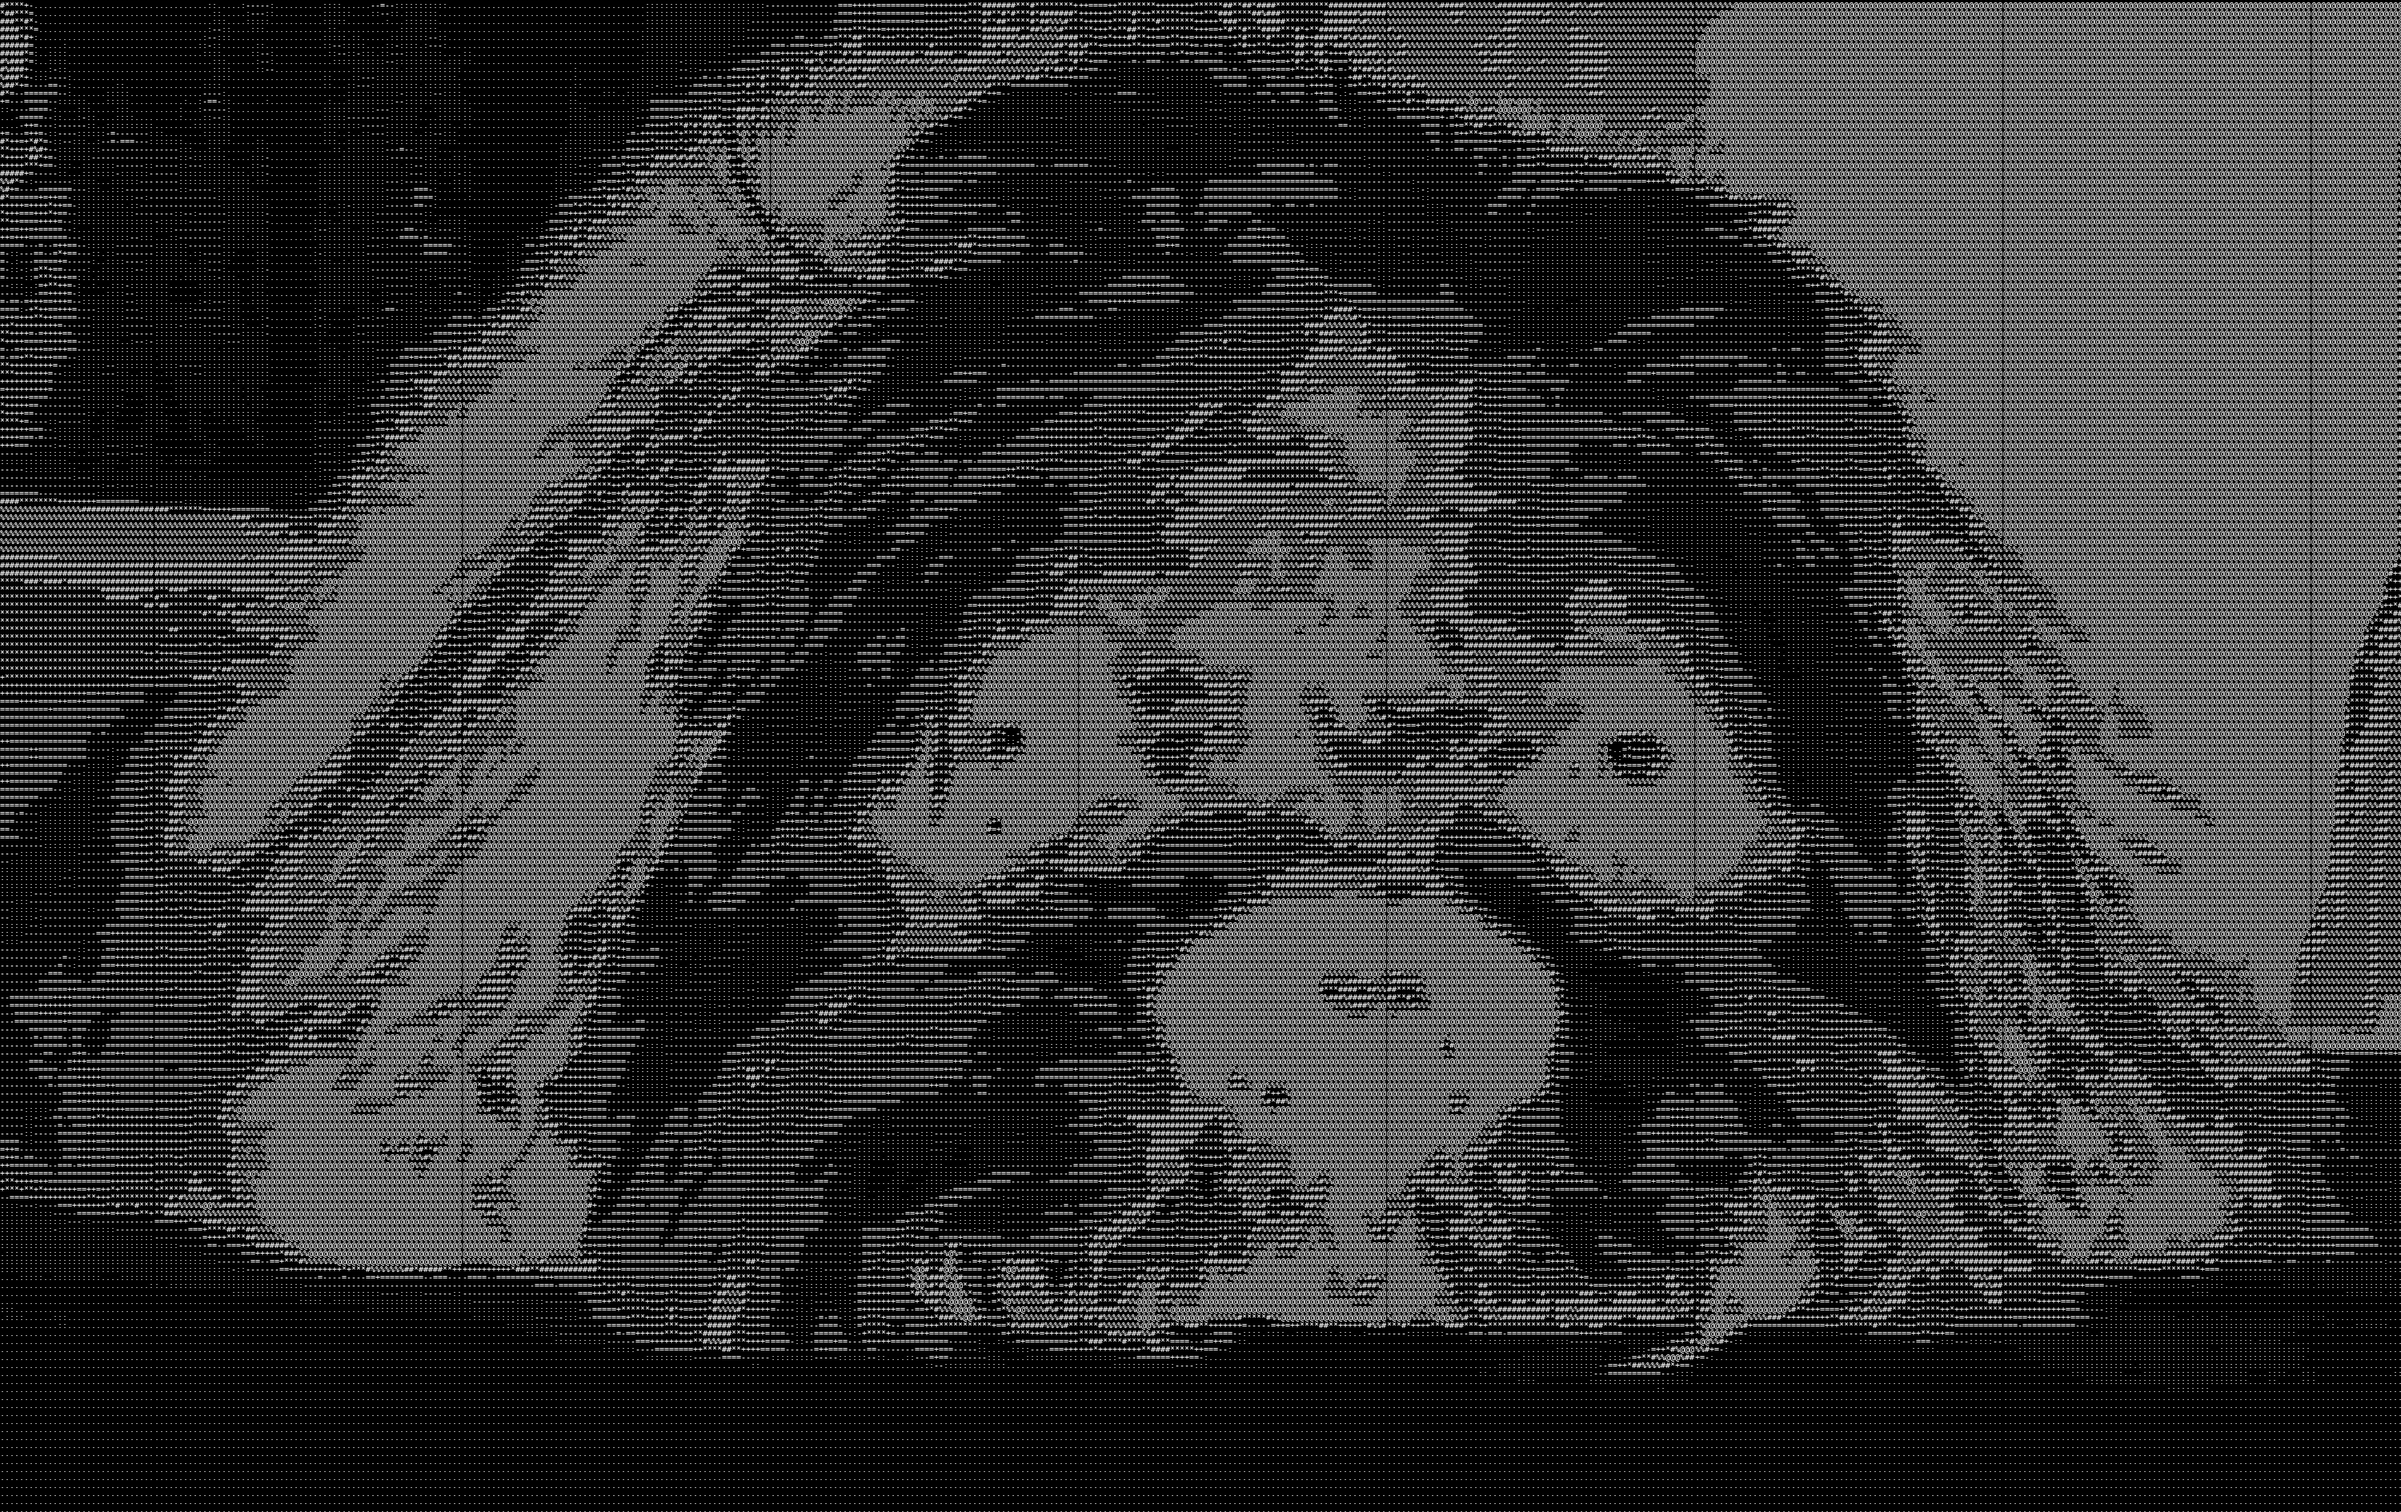
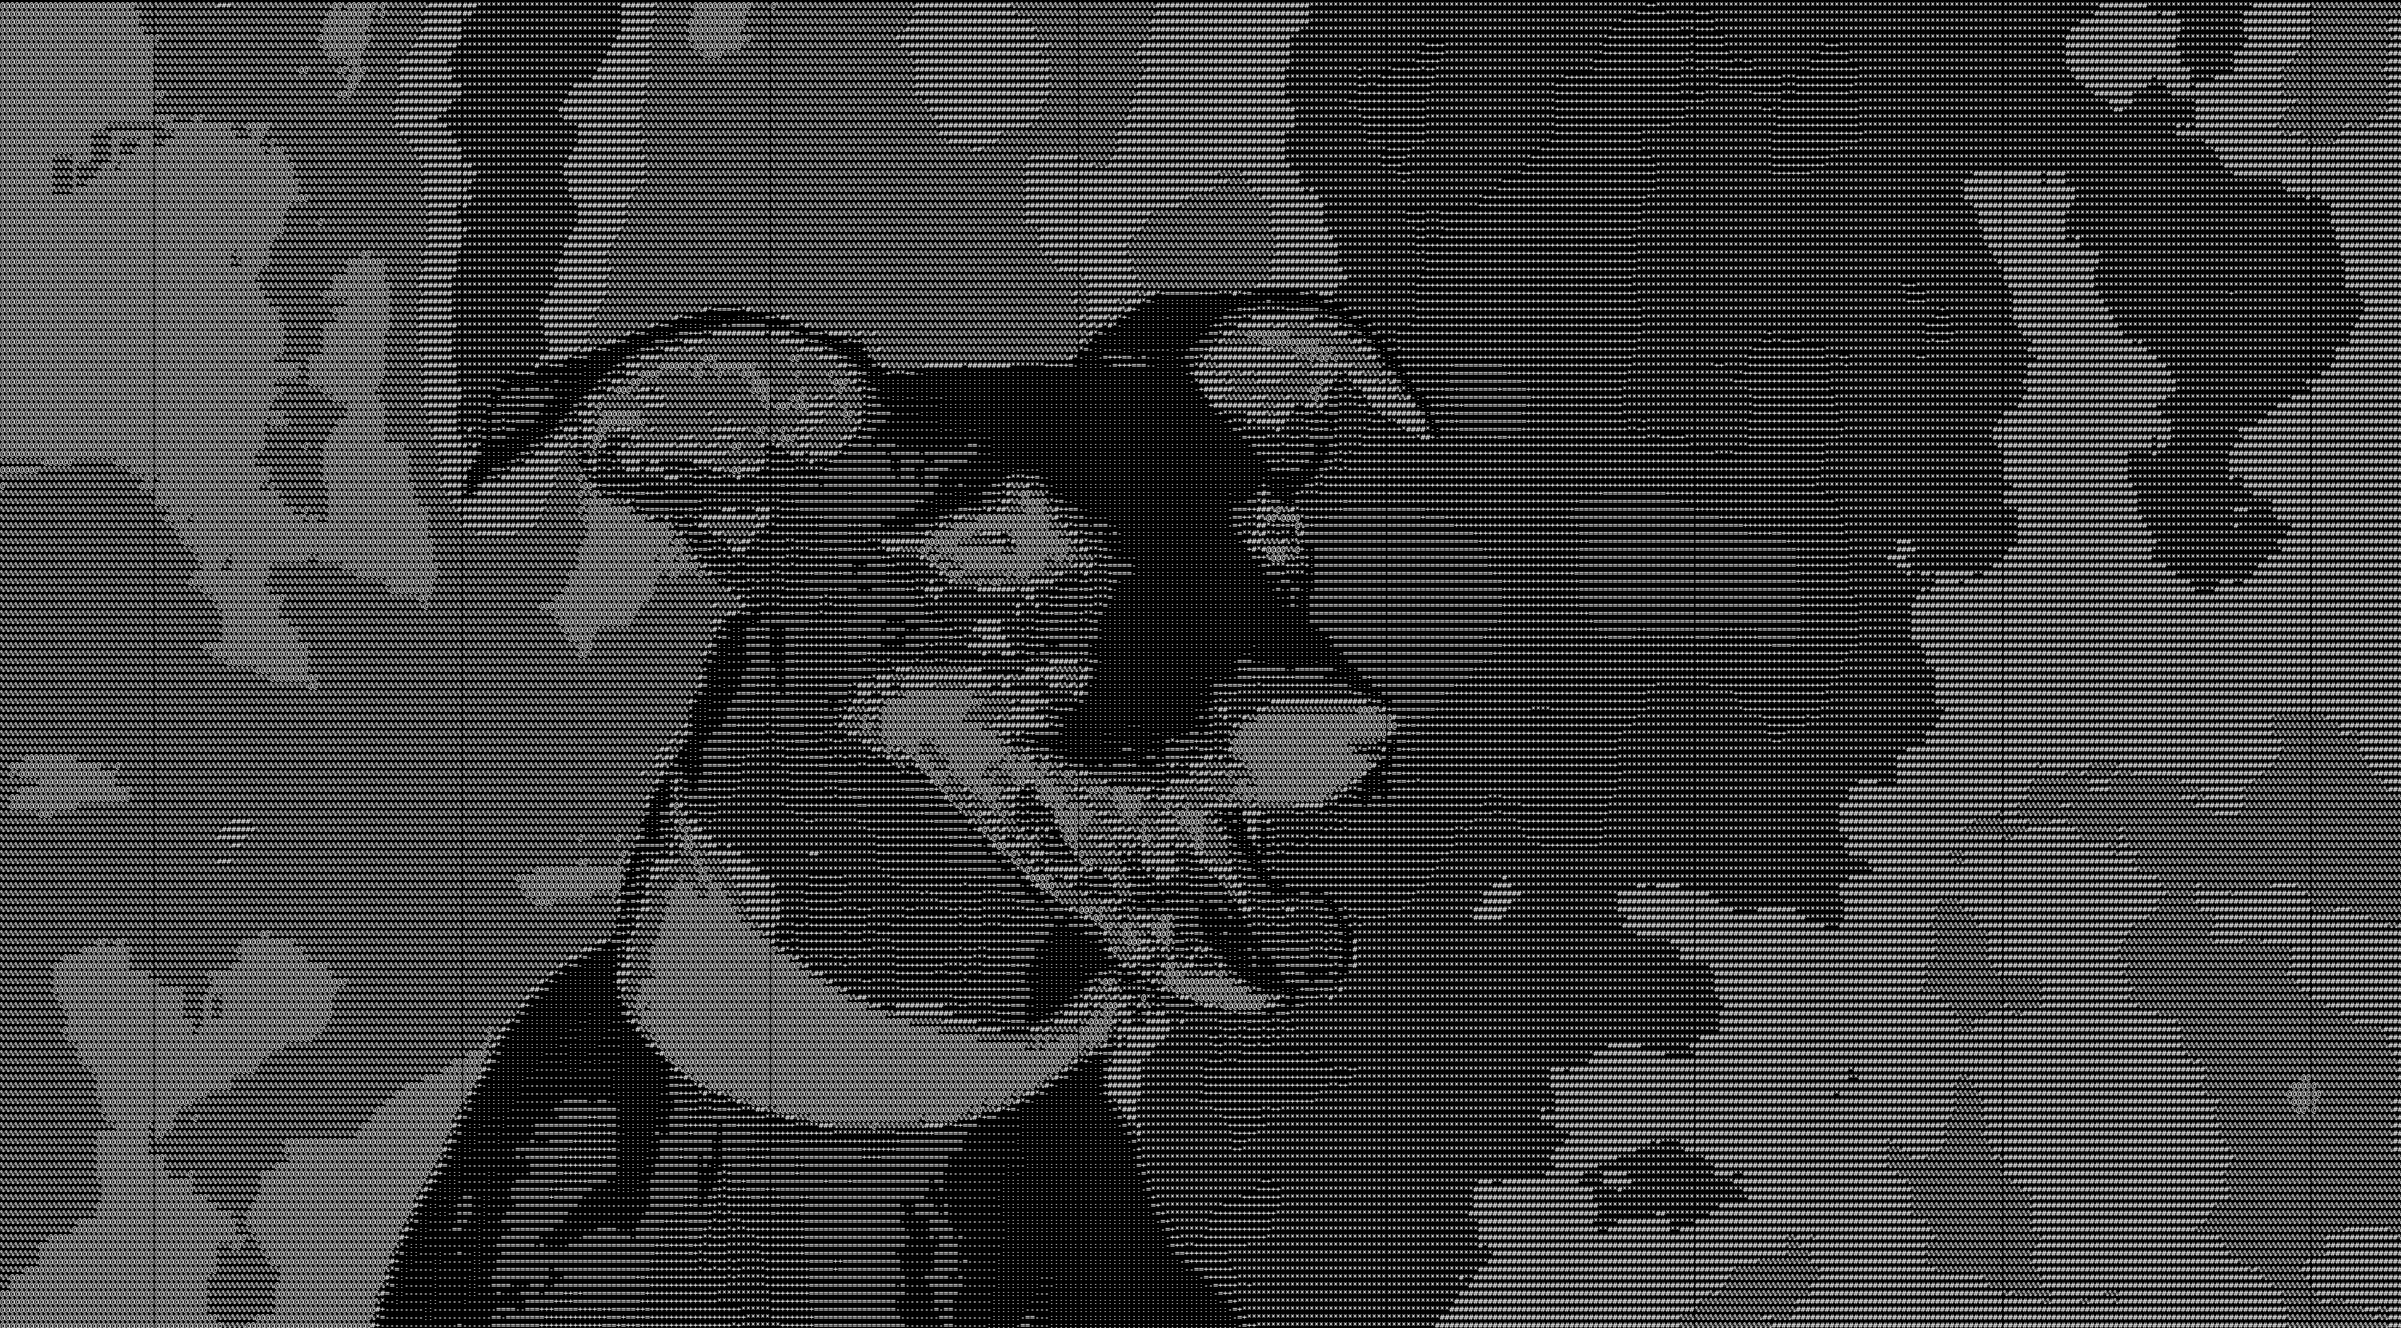
增加預覽圖片與輸出ascii art圖片功能，並看了很多可愛狗狗照片

diff --git a/main.py b/main.py
@@ -1,6 +1,7 @@
 import requests
 import os
-from PIL import Image, ImageEnhance, ImageDraw, ImageFont
+from PIL import Image, ImageEnhance, ImageDraw, ImageFont, ImageTk
+import tkinter as tk
 
 # 原始图像路径
 jpg_path = './temp.png'
@@ -9,51 +10,76 @@ image_path = jpg_path
 # 照片尺寸
 width = 500
 
-# 發送請求並取得圖片 URL
+# 发出请求并获取图片 URL
 response = requests.get('https://dog.ceo/api/breeds/image/random')
 
 if response.status_code == 200:
     data = response.json()
     image_url = data.get('message')
-    print(f"圖片的 URL 是：{image_url}")
+    print(f"图片的 URL 是：{image_url}")
 
-    # 下載圖片
+    # 下载图片
     image_response = requests.get(image_url)
     if image_response.status_code == 200:
-        # 取得圖片的檔案名稱
-        image_name = jpg_path
-        # 保存圖片
-        with open(image_name, 'wb') as file:
+        # 保存图片
+        with open(jpg_path, 'wb') as file:
             file.write(image_response.content)
-        print(f"圖片已保存為 {image_name}")
+        print(f"图片已保存为 {jpg_path}")
     else:
-        print(f"無法下載圖片。狀態碼：{image_response.status_code}")
+        print(f"无法下载图片。状态码：{image_response.status_code}")
 else:
-    print(f"無法取得資料。狀態碼：{response.status_code}")
-
-
-
+    print(f"无法获取数据。状态码：{response.status_code}")
 
 # 打开图像
 image = Image.open(jpg_path)
 
+# 显示原始图像
+def display_original_image(image):
+    root = tk.Tk()
+    root.title("Original Image")
+
+    # 调整图像大小以适应屏幕
+    screen_width = root.winfo_screenwidth()
+    screen_height = root.winfo_screenheight()
+    img_width, img_height = image.size
+
+    if img_width > screen_width or img_height > screen_height:
+        ratio = min(screen_width / img_width, screen_height / img_height) * 0.8  # 缩放到屏幕的 80%
+        image_resized = image.resize((int(img_width * ratio), int(img_height * ratio)), Image.LANCZOS)
+    else:
+        image_resized = image
+
+    # 将图像转换为 Tkinter 可显示的格式
+    tk_image = ImageTk.PhotoImage(image_resized)
+
+    # 创建标签来显示图像
+    label = tk.Label(root, image=tk_image)
+    label.image = tk_image  # 保持引用，防止被垃圾回收
+    label.pack()
+
+    # 启动 Tkinter 主循环
+    root.mainloop()
+
+# 调用显示原始图像的函数
+display_original_image(image)
+
 # 增加对比度
 contrast_enhancer = ImageEnhance.Contrast(image)
-image_contrasted = contrast_enhancer.enhance(1.8)  # 1.0 为原始值，大于 1.0 增加对比度
+image_contrasted = contrast_enhancer.enhance(1.5)  # 1.0 为原始值，大于 1.0 增加对比度
 
 # 降低亮度
 brightness_enhancer = ImageEnhance.Brightness(image_contrasted)
-image_result = brightness_enhancer.enhance(0.9)  # 1.0 为原始值，小于 1.0 降低亮度
+image_result = brightness_enhancer.enhance(0.8)  # 1.0 为原始值，小于 1.0 降低亮度
 
-# 保存临时处理后的图像
+# 保存处理后的图像
 image_result.save(image_path)
 
 # ASCII 字符集，包含更多字符以获得更好的效果
 ASCII_CHARS = "@@@@@@@@@@@@@@@%%%%%%%%%%%%%%%%%%%%%%%%%%%%############################*****************************++++++++++++++++++++++++++++============================-----------------------------::::::::::::::::::::::::::::............................               "
 
-def resize_gray_image(image, new_width = width):
-    width, height = image.size
-    aspect_ratio = height / width
+def resize_gray_image(image, new_width=width):
+    width_img, height = image.size
+    aspect_ratio = height / width_img
     new_height = int(aspect_ratio * new_width * 0.5)  # 调整高度以匹配字符的宽高比
     resized_image = image.resize((new_width, new_height))
     gray_image = resized_image.convert("L")  # 转换为灰度图像
@@ -109,3 +135,33 @@ else:
     # 将 ASCII 字符串绘制到图像并保存
     ascii_to_image(ascii_str, gray_image.width, output_image_path, font_size=10, bg_color="black", font_color="white")
 
+    # 显示 ASCII 艺术图像
+    def display_image(image_path):
+        root = tk.Tk()
+        root.title("ASCII Art")
+        
+        # 打开图像文件
+        img = Image.open(image_path)
+        
+        # 调整图像大小以适应屏幕
+        screen_width = root.winfo_screenwidth()
+        screen_height = root.winfo_screenheight()
+        img_width, img_height = img.size
+        
+        if img_width > screen_width or img_height > screen_height:
+            ratio = min(screen_width / img_width, screen_height / img_height) * 0.8  # 缩放到屏幕的 80%
+            img = img.resize((int(img_width * ratio), int(img_height * ratio)), Image.LANCZOS)
+        
+        # 将图像转换为 Tkinter 可显示的格式
+        tk_image = ImageTk.PhotoImage(img)
+        
+        # 创建标签来显示图像
+        label = tk.Label(root, image=tk_image)
+        label.image = tk_image  # 保持引用，防止被垃圾回收
+        label.pack()
+        
+        # 启动 Tkinter 主循环
+        root.mainloop()
+    
+    # 调用显示 ASCII 艺术图像的函数
+    display_image(output_image_path)
